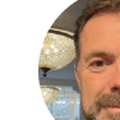
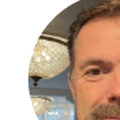
Reviews: foto-positionering gefixed, LinkedIn-icoon weg bij Maxim, Google Review link
- Avatar: background-image met bgPos/bgSize per foto voor exacte positionering
- Maxim bgPos 85% center + bgSize 200% — gezicht gecentreerd in cirkel
- Marie bgPos center 20% + bgSize 130% — portret gecentreerd
- LinkedIn-icoon verwijderd bij Maxim (alleen Saskia heeft LinkedIn badge)
- Google Review link: maps.app.goo.gl/2PDjcuArvZMu6SWs8

diff --git a/src/pages/Testimonials.jsx b/src/pages/Testimonials.jsx
@@ -8,6 +8,8 @@ const REVIEW_META = [
         name: "Saskia Zwaan",
         rating: 5,
         photo: "/reviews/saskia-zwaan.png",
+        bgPos: "center center",
+        bgSize: "cover",
         source: "LinkedIn",
     },
     {
@@ -15,13 +17,16 @@ const REVIEW_META = [
         name: "Marie H. Boddaert",
         rating: 5,
         photo: "/reviews/marie-boddaert.png",
+        bgPos: "center 20%",
+        bgSize: "130%",
     },
     {
         id: "villa",
         name: "Maxim Staal",
         rating: 5,
         photo: "/reviews/maxim-staal.png",
-        source: "LinkedIn",
+        bgPos: "85% center",
+        bgSize: "200%",
         company: "Villa Vredestein",
     },
 ];
@@ -36,18 +41,18 @@ function Stars({ count }) {
     );
 }
 
-function Avatar({ initials, photo }) {
+function Avatar({ initials, photo, bgPos, bgSize }) {
     if (photo) {
         return (
-            <img
-                src={photo}
-                alt=""
+            <div
+                className="review-avatar"
                 aria-hidden="true"
-                className="review-avatar review-avatar--photo"
-                width="40"
-                height="40"
-                loading="lazy"
-                decoding="async"
+                style={{
+                    backgroundImage: `url('${photo}')`,
+                    backgroundSize: bgSize || "cover",
+                    backgroundPosition: bgPos || "center center",
+                    backgroundRepeat: "no-repeat",
+                }}
             />
         );
     }
@@ -94,7 +99,7 @@ export default function Testimonials() {
                             &ldquo;{t(`testimonials.reviews.${r.id}.quote`)}&rdquo;
                         </blockquote>
                         <footer className="review-footer">
-                            <Avatar initials={r.initials} photo={r.photo} />
+                            <Avatar initials={r.initials} photo={r.photo} bgPos={r.bgPos} bgSize={r.bgSize} />
                             <div>
                                 <p className="review-name">{r.name}</p>
                                 <p className="review-role">
@@ -112,7 +117,7 @@ export default function Testimonials() {
                     <p className="cta-review-label">{t("testimonials.label")}</p>
                     <p className="cta-review-sub">{t("testimonials.sub")}</p>
                     <a
-                        href="https://g.page/r/YOUR_GOOGLE_REVIEW_LINK"
+                        href="https://maps.app.goo.gl/2PDjcuArvZMu6SWs8"
                         target="_blank"
                         rel="noreferrer"
                         className="btn-review-cta"
@@ -264,7 +269,6 @@ export default function Testimonials() {
           justify-content: center;
           flex-shrink: 0;
         }
-        .review-avatar--photo { object-fit: cover; background: none; }
         .review-name { margin: 0; font-size: .92rem; font-weight: 600; color: var(--text); }
         .review-role { margin: 0; font-size: .82rem; color: var(--muted); }
 